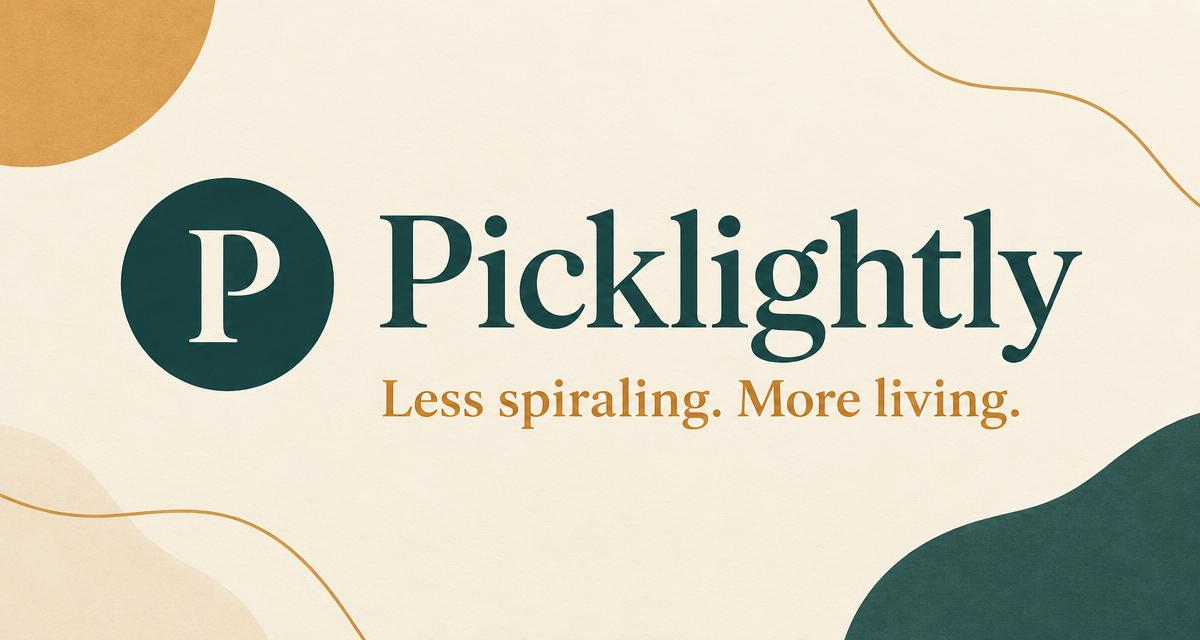
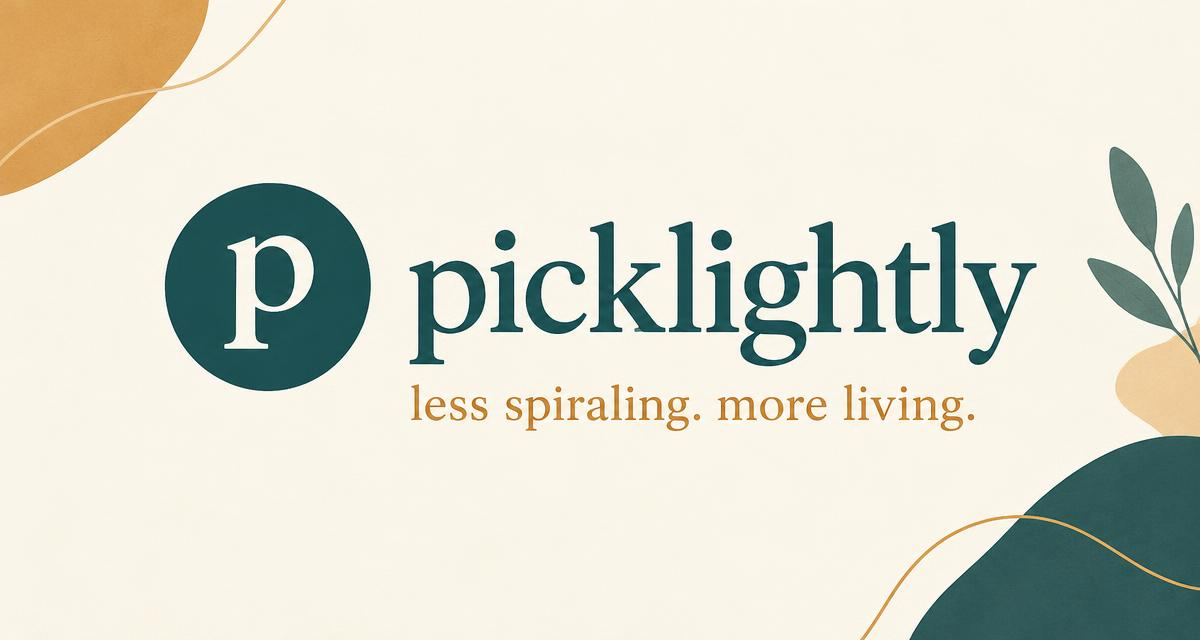
Changes

diff --git a/src/routeTree.gen.ts b/src/routeTree.gen.ts
@@ -15,6 +15,7 @@ import { Route as CompareRouteImport } from './routes/compare'
 import { Route as FilterRouteImport } from './routes/filter'
 import { Route as GoodEnoughRouteImport } from './routes/good-enough'
 import { Route as LogRouteImport } from './routes/log'
+import { Route as PughMatrixRouteImport } from './routes/pugh-matrix'
 import { Route as SecondGuessingRouteImport } from './routes/second-guessing'
 import { Route as SitemapDotxmlRouteImport } from './routes/sitemap[.]xml'
 
@@ -48,6 +49,11 @@ const LogRoute = LogRouteImport.update({
   path: '/log',
   getParentRoute: () => rootRouteImport,
 } as any)
+const PughMatrixRoute = PughMatrixRouteImport.update({
+  id: '/pugh-matrix',
+  path: '/pugh-matrix',
+  getParentRoute: () => rootRouteImport,
+} as any)
 const SecondGuessingRoute = SecondGuessingRouteImport.update({
   id: '/second-guessing',
   path: '/second-guessing',
@@ -66,6 +72,7 @@ export interface FileRoutesByFullPath {
   '/filter': typeof FilterRoute
   '/good-enough': typeof GoodEnoughRoute
   '/log': typeof LogRoute
+  '/pugh-matrix': typeof PughMatrixRoute
   '/second-guessing': typeof SecondGuessingRoute
   '/sitemap.xml': typeof SitemapDotxmlRoute
 }
@@ -76,6 +83,7 @@ export interface FileRoutesByTo {
   '/filter': typeof FilterRoute
   '/good-enough': typeof GoodEnoughRoute
   '/log': typeof LogRoute
+  '/pugh-matrix': typeof PughMatrixRoute
   '/second-guessing': typeof SecondGuessingRoute
   '/sitemap.xml': typeof SitemapDotxmlRoute
 }
@@ -87,6 +95,7 @@ export interface FileRoutesById {
   '/filter': typeof FilterRoute
   '/good-enough': typeof GoodEnoughRoute
   '/log': typeof LogRoute
+  '/pugh-matrix': typeof PughMatrixRoute
   '/second-guessing': typeof SecondGuessingRoute
   '/sitemap.xml': typeof SitemapDotxmlRoute
 }
@@ -99,6 +108,7 @@ export interface FileRouteTypes {
     | '/filter'
     | '/good-enough'
     | '/log'
+    | '/pugh-matrix'
     | '/second-guessing'
     | '/sitemap.xml'
   fileRoutesByTo: FileRoutesByTo
@@ -109,6 +119,7 @@ export interface FileRouteTypes {
     | '/filter'
     | '/good-enough'
     | '/log'
+    | '/pugh-matrix'
     | '/second-guessing'
     | '/sitemap.xml'
   id:
@@ -119,6 +130,7 @@ export interface FileRouteTypes {
     | '/filter'
     | '/good-enough'
     | '/log'
+    | '/pugh-matrix'
     | '/second-guessing'
     | '/sitemap.xml'
   fileRoutesById: FileRoutesById
@@ -130,6 +142,7 @@ export interface RootRouteChildren {
   FilterRoute: typeof FilterRoute
   GoodEnoughRoute: typeof GoodEnoughRoute
   LogRoute: typeof LogRoute
+  PughMatrixRoute: typeof PughMatrixRoute
   SecondGuessingRoute: typeof SecondGuessingRoute
   SitemapDotxmlRoute: typeof SitemapDotxmlRoute
 }
@@ -178,6 +191,13 @@ declare module '@tanstack/react-router' {
       preLoaderRoute: typeof LogRouteImport
       parentRoute: typeof rootRouteImport
     }
+    '/pugh-matrix': {
+      id: '/pugh-matrix'
+      path: '/pugh-matrix'
+      fullPath: '/pugh-matrix'
+      preLoaderRoute: typeof PughMatrixRouteImport
+      parentRoute: typeof rootRouteImport
+    }
     '/second-guessing': {
       id: '/second-guessing'
       path: '/second-guessing'
@@ -202,6 +222,7 @@ const rootRouteChildren: RootRouteChildren = {
   FilterRoute: FilterRoute,
   GoodEnoughRoute: GoodEnoughRoute,
   LogRoute: LogRoute,
+  PughMatrixRoute: PughMatrixRoute,
   SecondGuessingRoute: SecondGuessingRoute,
   SitemapDotxmlRoute: SitemapDotxmlRoute,
 }

diff --git a/roadmap.md b/roadmap.md
@@ -1,0 +1,3 @@
+# Roadmap
+- [x] Pugh matrix guide page
+- [ ] Share image text all lowercase
